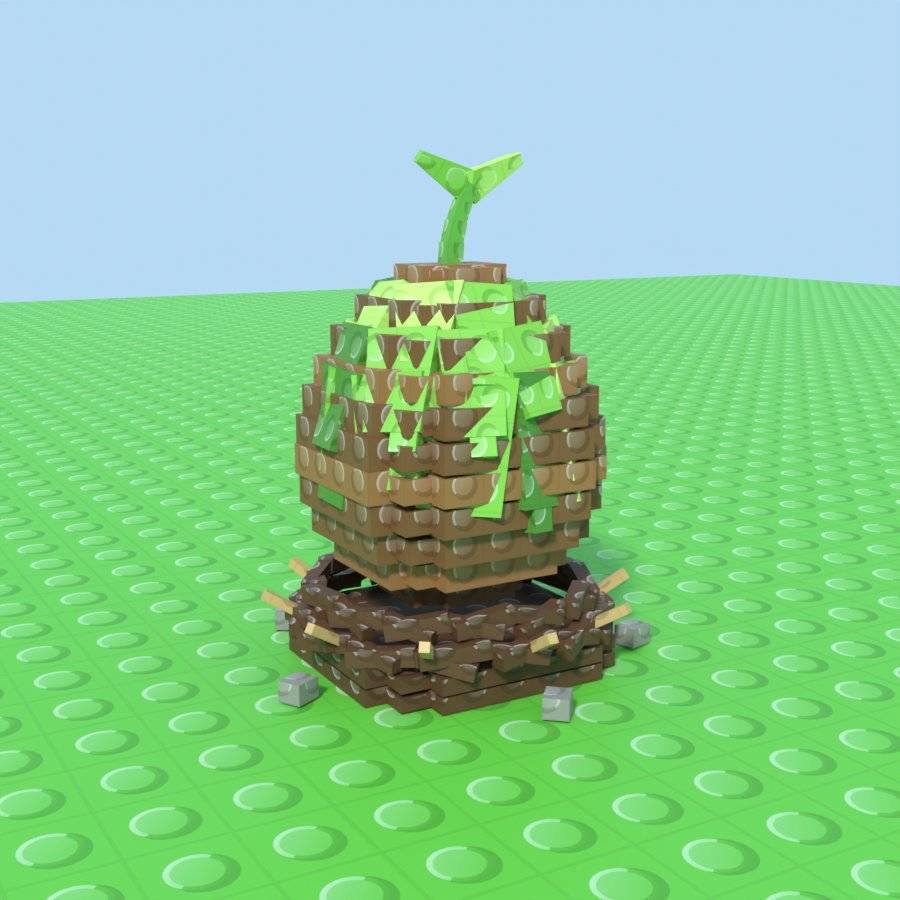
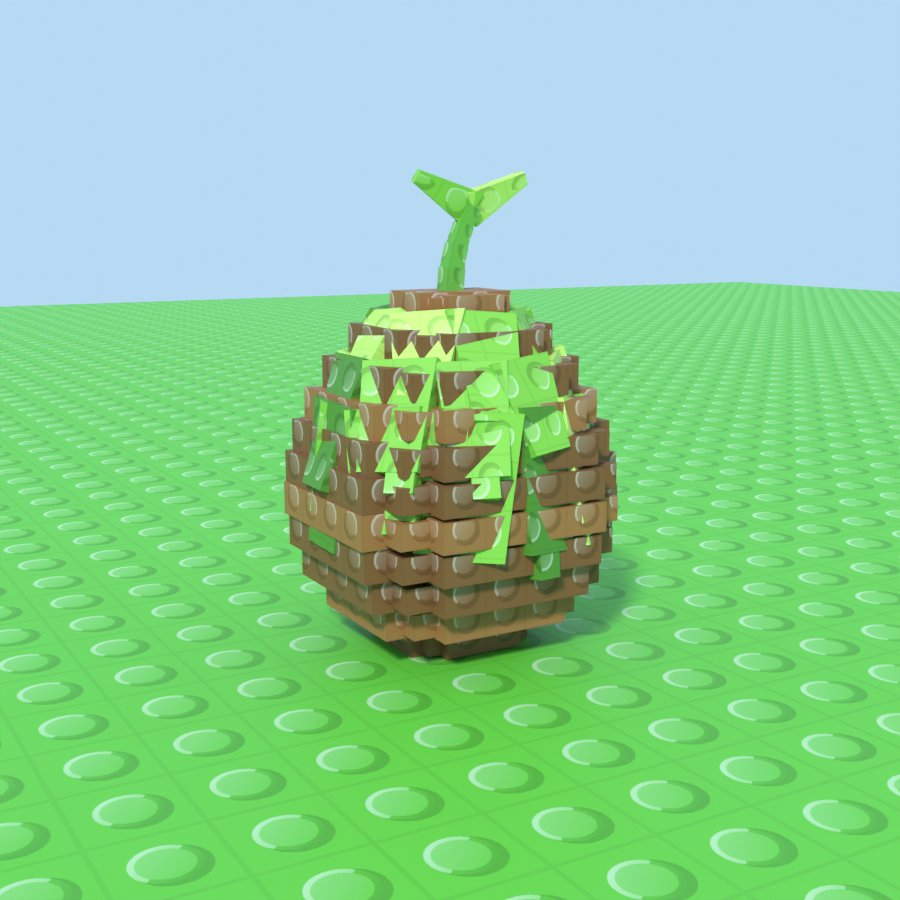
Remove the Mossbark Egg's nest: the egg sits on the ground
- Generator: no nest parts; egg base at ground level with a Ground socket.
- StarterSet: an invisible EggCore at the base is the egg's root; idle is a
  little rock on the ground instead of bob/spin; hatch centres on the egg.
- Demo, master brief and preview updated.

Claude-Session: https://claude.ai/code/session_01KLKh2kGEFysHhAkwDVk6Ku

diff --git a/blender/GenerateStarterSet.py b/blender/GenerateStarterSet.py
@@ -14,8 +14,8 @@ Builds three assets in one scene, "StarterSet", one collection per asset:
                    (the Tool handle) and Head.
   MossbarkEgg      The most common egg (Wood, Common). Blocky stud style: a
                    bark-brown banded shell, a draping moss-leaf cap, a sprout on
-                   top and a tiny red mushroom on its side, in a twig nest.
-                   About 5 studs tall.
+                   top and a tiny red mushroom on its side. No nest: it sits
+                   straight on the ground (pivot at the base). About 4.8 studs tall.
   MosscapToad      The first Common monster from that egg. Blocky stud style,
                    simple (Common on the complexity ladder): a chubby moss-green
                    toad with big eyes, blushing cheeks, moss tufts and a red
@@ -73,9 +73,6 @@ PALETTE = {
     "EggSprout": "#5FA83A",
     "EggShroom": "#E5402F",
     "EggShroomSpots": "#FFF7EC",
-    "NestTwig": "#5A3B22",
-    "NestStraw": "#C9A66B",
-    "NestPebble": "#8C8C82",
     # Mosscap Toad
     "ToadBody": "#6DBE45",
     "ToadBelly": "#F1E7C2",
@@ -1176,7 +1173,7 @@ def smooth_and_bake(scene, obj, texture_name):
 # ---------------------------------------------------------------------------
 # 2. Mossbark Egg (blocky, Common)
 # ---------------------------------------------------------------------------
-EGG_BASE_Z = 0.85
+EGG_BASE_Z = 0.0  # the egg sits straight on the ground
 EGG_HEIGHT = 4.0
 EGG_RADIUS = 1.6
 
@@ -1193,7 +1190,7 @@ def egg_surface(t, a, out=0.0):
 
 def build_mossbark_egg(coll):
     rng = random.Random(SEED + 3)
-    shell, nest = PartBuilder(), PartBuilder()
+    shell = PartBuilder()
 
     layers = 11
     for i in range(layers):
@@ -1239,36 +1236,12 @@ def build_mossbark_egg(coll):
         spot_pos = cap_centre + out * 0.12 + d * 0.26
         shell.box("EggShroomSpots", spot_pos, (0.12, 0.12, 0.06), basis(out * 0.6 + d * 0.8, out))
 
-    # Nest: a flat twig base, two rings of crossing twigs, straw tufts, pebbles.
-    nest.blob("NestTwig", (0, 0, 0.22), (2.1, 0.22, 2.1), step=0.44, rot=basis_from_y((0, 0, 1), (0, 1, 0)))
-    for ring_i, (radius, z) in enumerate(((1.95, 0.55), (1.75, 0.85))):
-        for k in range(14):
-            a0 = 2 * math.pi * k / 14 + ring_i * 0.2
-            a1 = a0 + 2 * math.pi / 14 * 1.6
-            p0 = Vector((math.cos(a0) * radius, math.sin(a0) * radius, z + rng.uniform(-0.08, 0.08)))
-            p1 = Vector((math.cos(a1) * radius, math.sin(a1) * radius, z + rng.uniform(-0.08, 0.08)))
-            nest.chain("NestTwig", [p0, (p0 + p1) / 2 + Vector((0, 0, 0.1)), p1], [0.2, 0.17], roll_hint=(0, 0, 1))
-    for k in range(10):
-        a = 2 * math.pi * k / 10 + 0.3
-        radial = Vector((math.cos(a), math.sin(a), 0))
-        nest.box("NestStraw", radial * 2.05 + Vector((0, 0, 0.75)), (0.12, 0.6, 0.12),
-                 basis_from_y(radial + Vector((0, 0, 0.6)), (0, 0, 1)))
-    for k in range(5):
-        a = rng.uniform(0, 2 * math.pi)
-        nest.box("NestPebble", Vector((math.cos(a) * 2.35, math.sin(a) * 2.35, 0.15)), (0.35, 0.3, 0.25),
-                 euler_deg(0, 0, rng.uniform(0, 90)))
-
-    shell_objects = shell.to_objects(coll)
-    nest_objects = nest.to_objects(coll)
-    objects = dict(shell_objects)
-    objects.update(nest_objects)
+    objects = shell.to_objects(coll)
     assign_materials(objects)
-    for part, obj in objects.items():
-        obj["EggGroup"] = "Shell" if part in shell_objects else "Nest"
     sockets = [
         add_socket(coll, "EggCenter", (0, 0, EGG_BASE_Z + EGG_HEIGHT * 0.45)),
         add_socket(coll, "Crown", stem[-1] + Vector((0, 0, 0.5))),
-        add_socket(coll, "NestRim", (0, 0, 0.9)),
+        add_socket(coll, "Ground", (0, 0, 0.05)),  # base centre: the egg rocks and hatches around this
     ]
     return objects, sockets
 
@@ -1444,7 +1417,7 @@ def main():
         check_budget(objects, "MossbarkEgg")
         manifest["MossbarkEgg"] = collect_manifest("MossbarkEgg", objects, sockets)
         export_glb(scene, list(objects.values()) + sockets, os.path.join(OUTPUT_DIR, "MossbarkEgg.glb"))
-        setup_preview(scene, coll, target=(0, 0, 2.6), distance=15, height=3.0, angle_deg=-30, size=(900, 900))
+        setup_preview(scene, coll, target=(0, 0, 2.2), distance=14, height=2.6, angle_deg=-30, size=(900, 900))
         render_preview(scene, "MossbarkEgg.png")
 
     if BUILD_MONSTER:

diff --git a/docs/MasterBrief.md b/docs/MasterBrief.md
@@ -256,16 +256,16 @@ The first four references are **built** and live in the repo. Open their preview
 ### 5.4b Mossbark Egg and Mosscap Toad: Common examples (Wood) ✅ built
 - **Built by:** `GenerateStarterSet.py` → `MossbarkEgg.glb` and `MosscapToad.glb`.
 - **They mark the bottom of the complexity ladder:**
-  - Mossbark Egg: about 2.1k triangles, 11 parts.
+  - Mossbark Egg: about 1.2k triangles, 8 parts.
   - Mosscap Toad: about 2.7k triangles, 10 parts.
-- **Mossbark Egg:** a bark-brown banded shell, a draping moss-leaf cap, a sprout on top and a tiny red mushroom growing on its side, sitting in a twig nest with straw and pebbles.
+- **Mossbark Egg:** a bark-brown banded shell, a draping moss-leaf cap, a sprout on top and a tiny red mushroom growing on its side, sitting straight on the ground (no nest).
 - **Mosscap Toad:**
   - a chubby moss-green toad with big eyes, blushing cheeks and a smile;
   - folded legs and toes, and moss tufts down its back;
   - a red Amanita cap with white warts, which ties it to the Zone 1 mushroom.
 - **Effects:**
   - Toad: idle hops with a landing squash and a dust puff, plus drifting spores.
-  - Egg: bob and spin, falling leaves, sprout spores, and a "Common" label.
+  - Egg: rocks side to side on the ground (pivoting at its base), falling leaves, sprout spores, and a "Common" label.
   - Hatch: a wobble, then shell shards, a leaf burst and dust.
 - **Studio:** `StarterSet.lua` (`Assemble`, `StartToad`, `StartEgg`, `PlayHatch`, `ResetEgg`).
 
@@ -414,7 +414,7 @@ Effects run in Roblox as ParticleEmitters, Beams, Trails, Highlights and lights,
      - crystals and membranes: **Glass**, transparency 0.15–0.3;
      - eyes, cracks and seams: **Neon**.
   2. Move the glowing parts into a `Glow` sub-model, so **one** Highlight covers them all.
-  3. Anchor the root part (`Body` for monsters, `Nest` for eggs, `Handle` for weapons). Every other part gets a WeldConstraint to it and is set unanchored, Massless and CanCollide = false.
+  3. Anchor the root part (`Body` for monsters, `Nest` or an invisible `EggCore` at the base for eggs, `Handle` for weapons). Every other part gets a WeldConstraint to it and is set unanchored, Massless and CanCollide = false.
   4. Eggs: the shell parts are welded to an anchored, invisible `EggCore`, which the idle animation moves.
   5. Turn `Socket_*` parts into Attachments, then delete the sockets. The Mouth attachment faces out of the mouth.
   6. Fill in any missing attributes and set `PrimaryPart`. Assemble must be safe to re-run.
